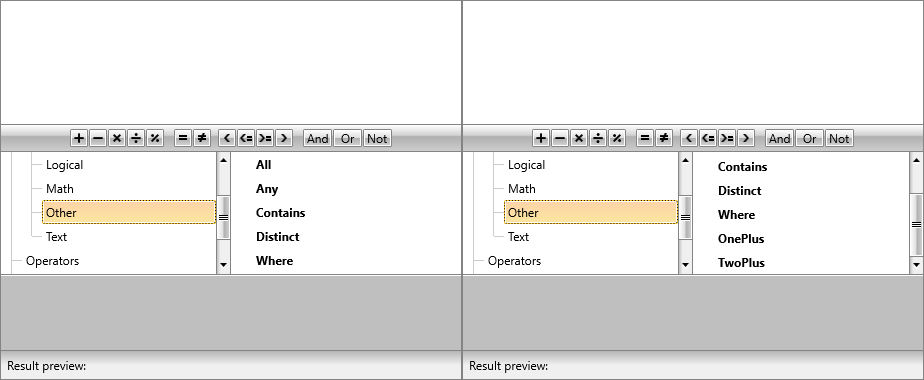
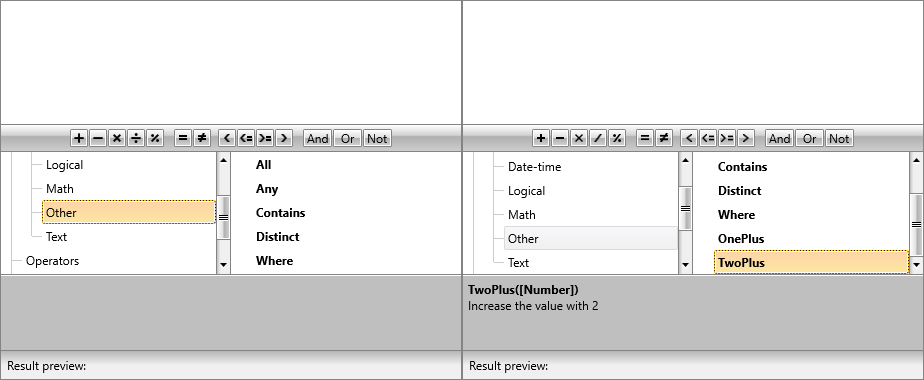
Add description to functions Add note about drill-down and viewmodel

diff --git a/controls/radexpressioneditor/expressions/custom-functions-and-categories.md b/controls/radexpressioneditor/expressions/custom-functions-and-categories.md
@@ -106,11 +106,13 @@ If you want to add your custom non-static functions to the control you need to s
 
     public class CustomExpressionFunctionContext : ExpressionFunctionContext
     {
+        [Description("Increase the value by 1")]
         public int OnePlus(int input)
         {
             return ++input;
         }
-
+        
+        [Description("Increase the value with 2")]
         public int TwoPlus(int input)
         {
             return input + 2;
@@ -129,7 +131,7 @@ If you want to add your custom non-static functions to the control you need to s
 
 You can then add these functions in the **GetFunctionsItemModels** override as well as remove some of the predefined functions.
 
-#### [C#] Example 6: Add and remove functions
+#### [C#] Example 6: Add custom functions
 
 {{region cs-radexpressioneditor-expressions-custom-functions-and-categories-6}}
 
@@ -145,7 +147,7 @@ You can then add these functions in the **GetFunctionsItemModels** override as w
     }
 {{endregion}}
 
-**Example 6** removes the **Aggregate** subcategory and adds the two custom functions defined in Example 4 to the **Other** subcategory. It also removes the **Where** function from it. The results before and after respectively are illustrated in **Figure 2**. 
+**Example 6** adds the two custom functions defined in Example 4 to the **Other** subcategory. The results before and after respectively are illustrated in **Figure 2**. 
 
 {% figure 2, "Custom functions", "custom-functions.png" %}
 

diff --git a/controls/radexpressioneditor/expressions/drill-down.md b/controls/radexpressioneditor/expressions/drill-down.md
@@ -34,6 +34,8 @@ As of **R1 2019**, the RadExpressionEditor control allows users to expand comple
 
 {% figure 1, "Drill-down functionality", "drill-down.png" %}
 
+>important If you have defined a custom [ExpressionEditorViewModel]({%slug radexpressioneditor-expressions-custom-functions-and-categories%}), you should set the **IsFieldsDrillDownEnabled** property after you set the control's **ViewModel** property for the drill-down functionality to work.
+
 ## See Also
 
 * [Lambdas]({%slug radexpressioneditor-expressions-lambdas%})
